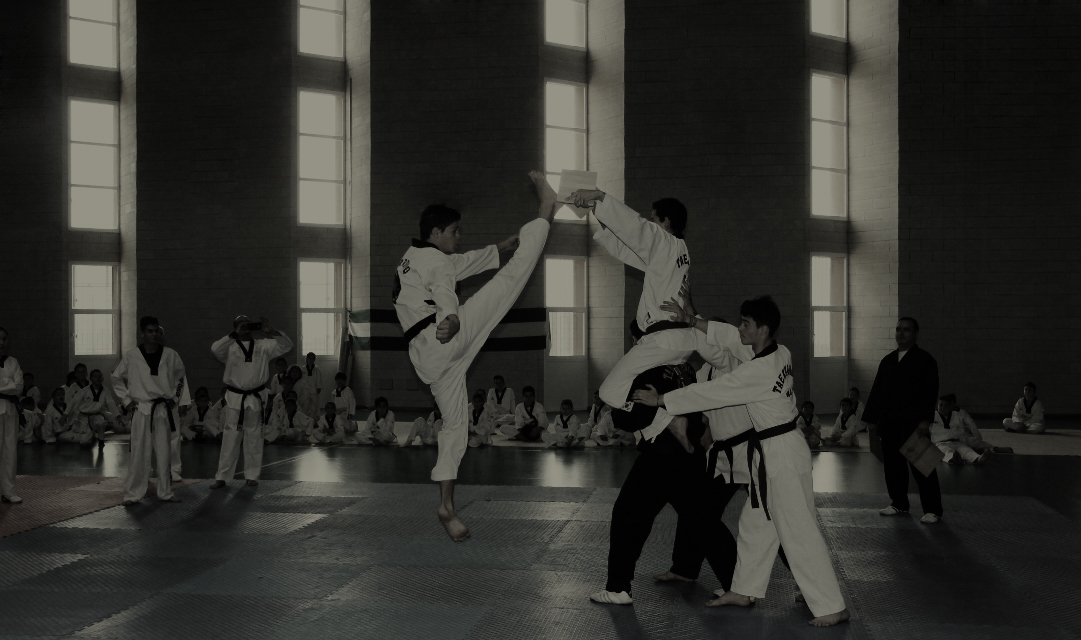
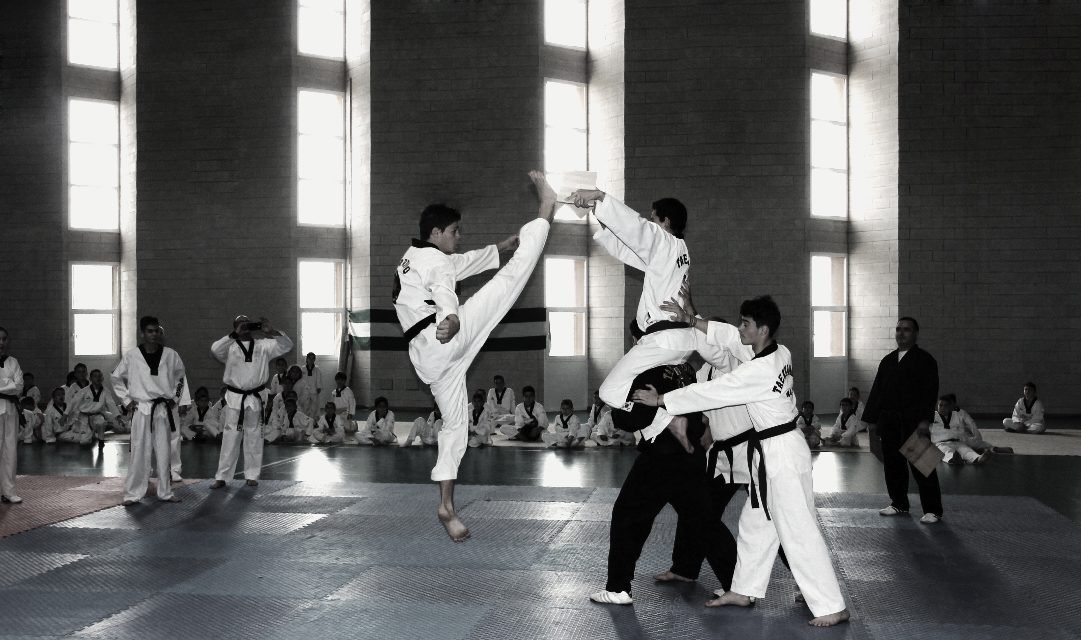
Dodano przykładowe grafiki public domain, zmiany kosmetyczne

diff --git a/css/training.css b/css/training.css
@@ -15,11 +15,11 @@ body
 .martheader
 {
     padding: 2px;
-    background: rgba(0, 0, 0, 0.493);
+    background: rgba(0, 0, 0, 0.678);
     width: 60%;
     height: 40px;
     line-height: 40px;
-    margin: 10px auto 0 auto;
+    margin: 15vh auto 0 auto;
     color: white;
     font-size: 1.3em;
     font-weight: 700;
@@ -38,6 +38,11 @@ body
 #taekw
 {
     background: url(../img/marts/min/taekw.jpg) no-repeat center;
+}
+
+#muayt
+{
+    background: url(../img/marts/min/muayt.jpg) no-repeat center;
 }
 
 /* Small devices (portrait tablets, landscape phones, 640px and up) */
